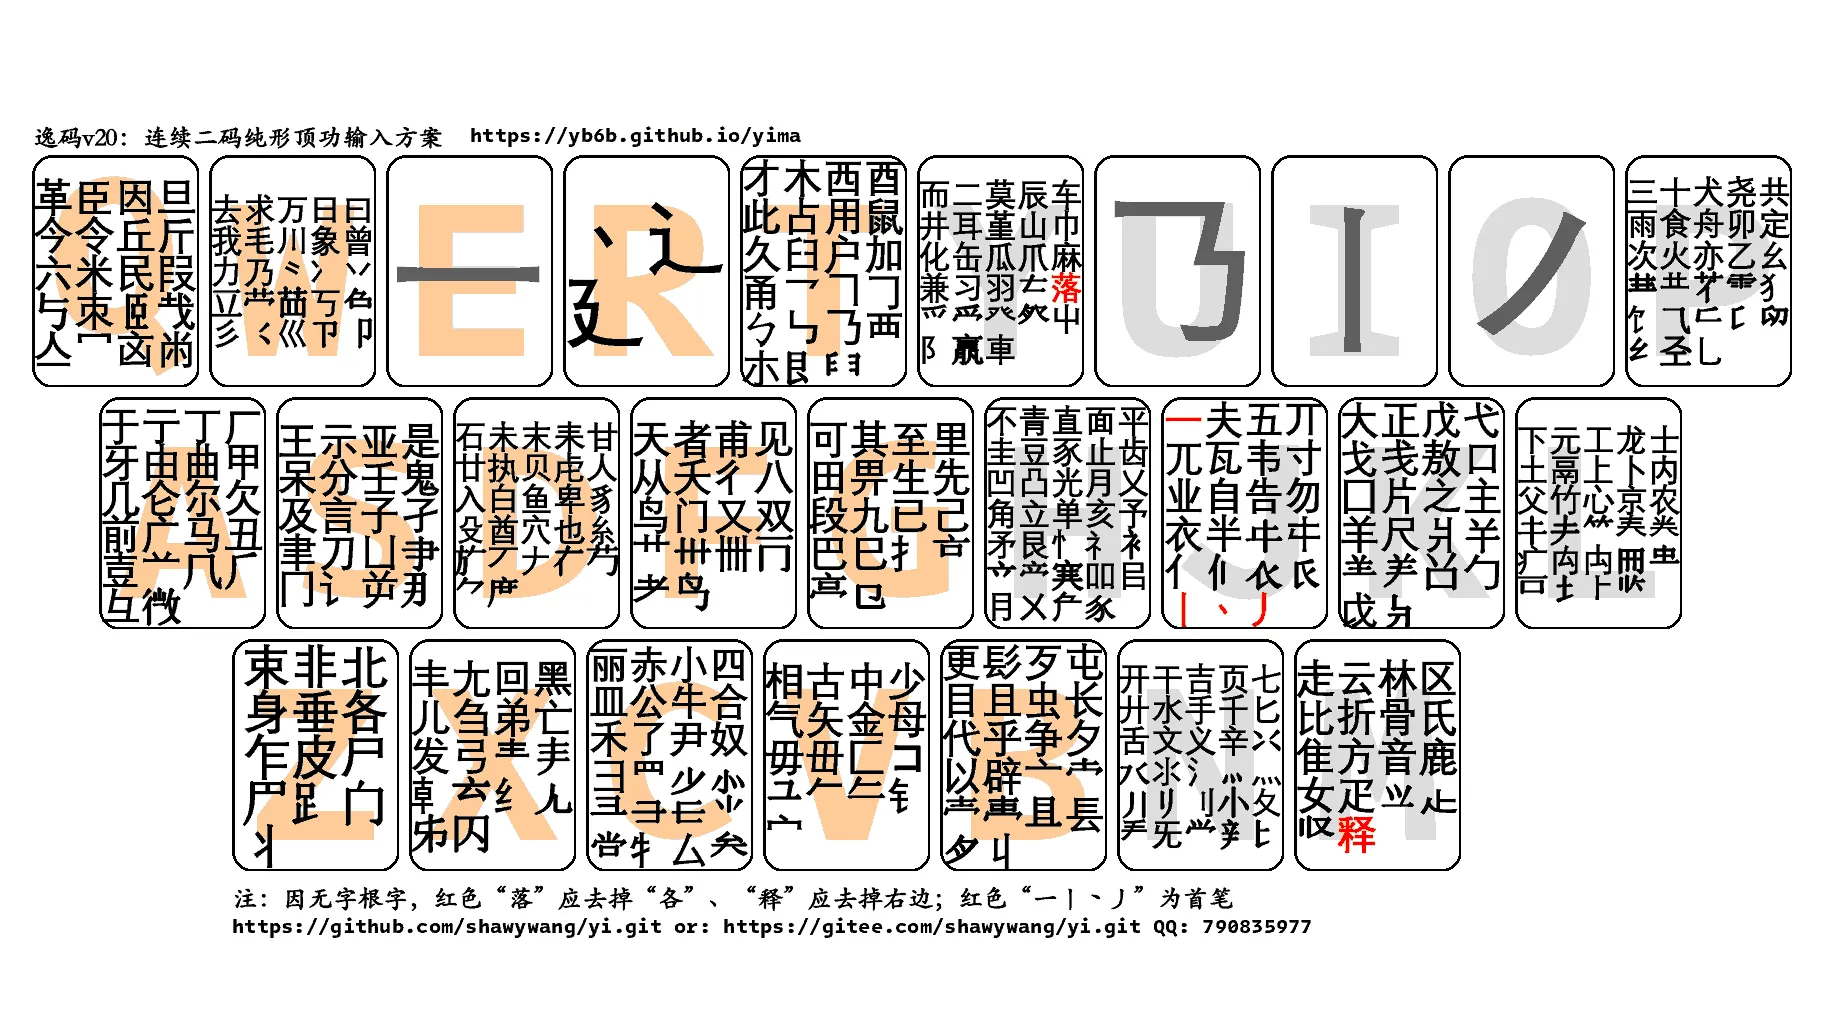
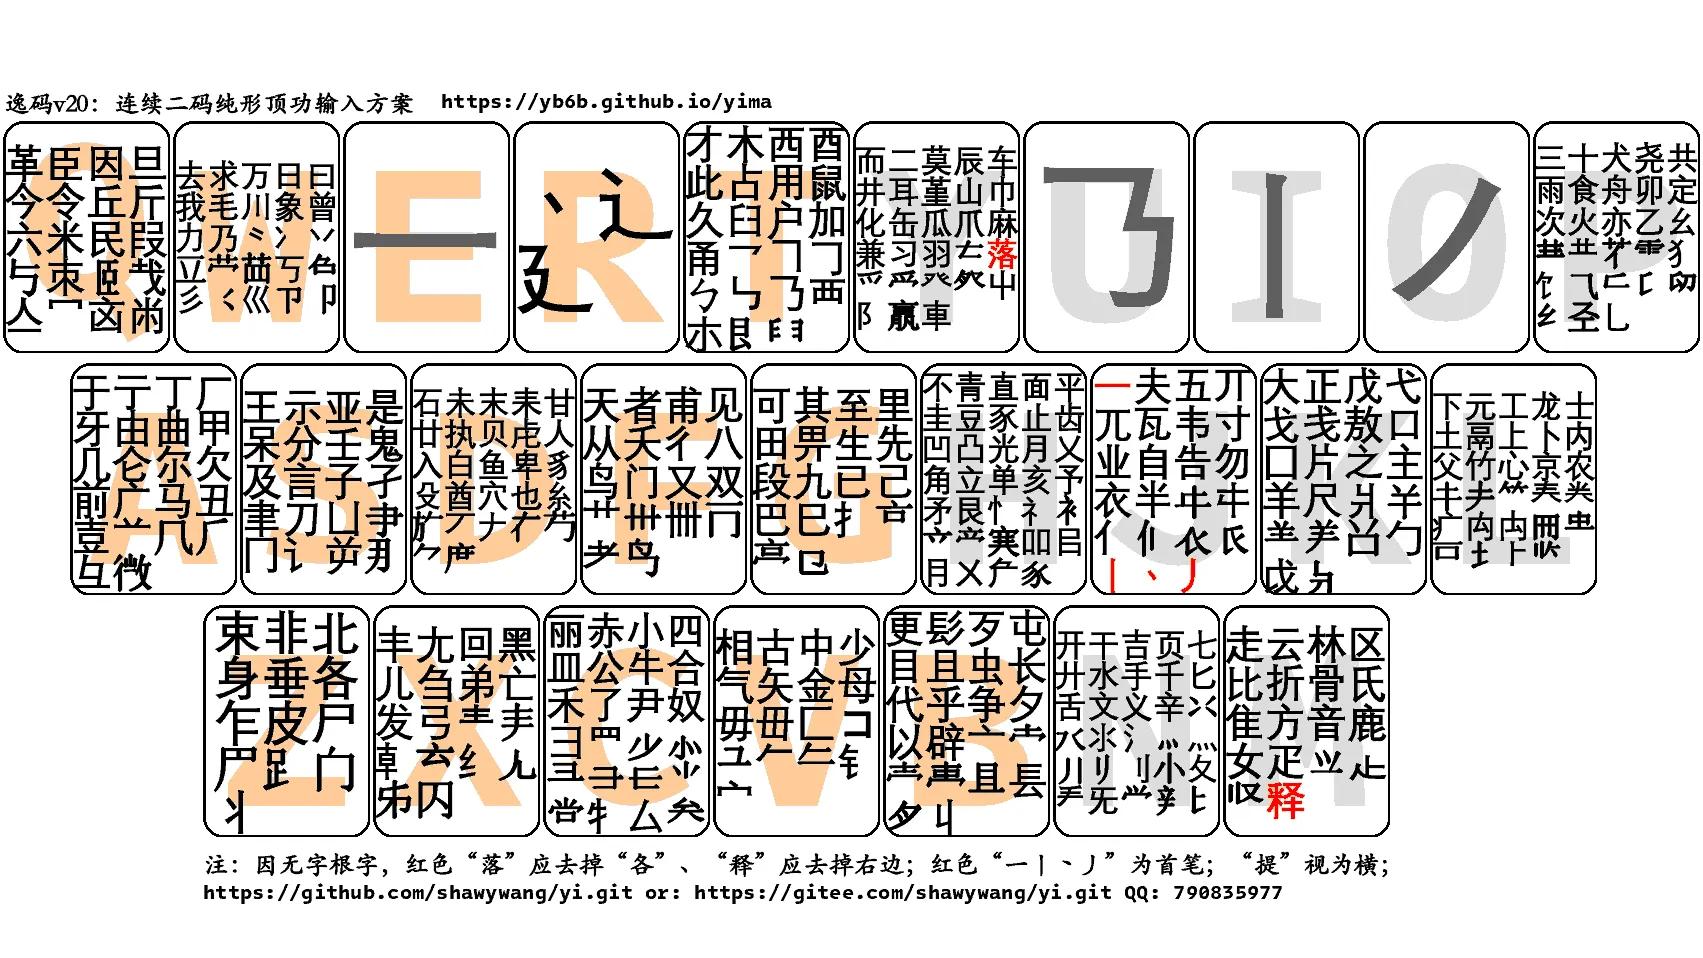
horizontal2

diff --git a/字根画26键.py b/字根画26键.py
@@ -12,17 +12,18 @@ class Handle:
     def draw26(self):
         key_width = 167
         key_height = 232
-        padding = 10  # 键之间的距离：宽和高
-        lr: int = 32  # 画布左、右空白像素
-        ud: int = 155  # 画布上、下空白像素
+        padding_h = 2  # 键之间的距离：水平方向
+        padding_v = 10  # 键之间的距离：竖直方向
+        lr: int = 3  # 画布左、右空白像素
+        ud: int = 118.5  # 画布上、下空白像素
         keyboard_layout = [
             list("qwertyuiop"),
             list("asdfghjkl"),
             list("zxcvbnm"),
         ]
-        # 键盘底图，宽1824，高1026
-        keyboard_width = len(keyboard_layout[0]) * (key_width + padding) - padding + lr * 2  # 左右各加32个像素的空白
-        keyboard_height = len(keyboard_layout) * (key_height + padding) - padding + ud * 2  # 上下各加155个像素，以适配宽/高=1920/1080
+        # 键盘底图，宽1703，高958
+        keyboard_width = len(keyboard_layout[0]) * (key_width + padding_h) - padding_h + lr * 2  # 左右空白
+        keyboard_height = len(keyboard_layout) * (key_height + padding_v) - padding_v + ud * 2  # 上下空白，以适配宽/高=1920/1080
         keyboard_image = Image.new("RGB", (keyboard_width, keyboard_height), (255, 255, 255))
         draw = ImageDraw.Draw(keyboard_image)
         # 加载单键文件
@@ -37,18 +38,18 @@ class Handle:
             x_offset = x_add[n]
             for l in row:
                 keyboard_image.paste(letter_images[l], (x_offset, y_offset))
-                x_offset += (key_width + padding)
-            y_offset += (key_height + padding)
+                x_offset += (key_width + padding_h)
+            y_offset += (key_height + padding_v)
 
         # 加备注文字
         n_x = round(key_width * 1.2) + lr
-        n_y = 3 * (key_height + padding) + ud
+        n_y = 3 * (key_height + padding_v) + ud
         n_font1 = ImageFont.truetype(font=r"C:\Users\wangxiao\AppData\Local\Microsoft\Windows\Fonts\华文楷体粗.ttf", size=25)
         n_font2 = ImageFont.truetype(font=r"C:\Users\wangxiao\AppData\Local\Microsoft\Windows\Fonts\IntelOneMono-Bold.ttf", size=20)
 
         draw.text(xy=(lr, ud - 35), text="逸码v20：连续二码纯形顶功输入方案", fill=(0, 0, 0), font=n_font1)
         draw.text(xy=(lr + 438, ud - 35), text="https://yb6b.github.io/yima", fill=(0, 0, 0), font=n_font2)
-        draw.text(xy=(n_x, n_y), text="注：因无字根字，红色“落”应去掉“各”、“释”应去掉右边；红色“一丨丶丿”为首笔", fill=(0, 0, 0), font=n_font1)
+        draw.text(xy=(n_x, n_y), text="注：因无字根字，红色“落”应去掉“各”、“释”应去掉右边；红色“一丨丶丿”为首笔；“提”视为横；", fill=(0, 0, 0), font=n_font1)
         draw.text(xy=(n_x, n_y + 30), text="https://github.com/shawywang/yi.git or: https://gitee.com/shawywang/yi.git QQ: 790835977", fill=(0, 0, 0), font=n_font2)
 
         # 保存
